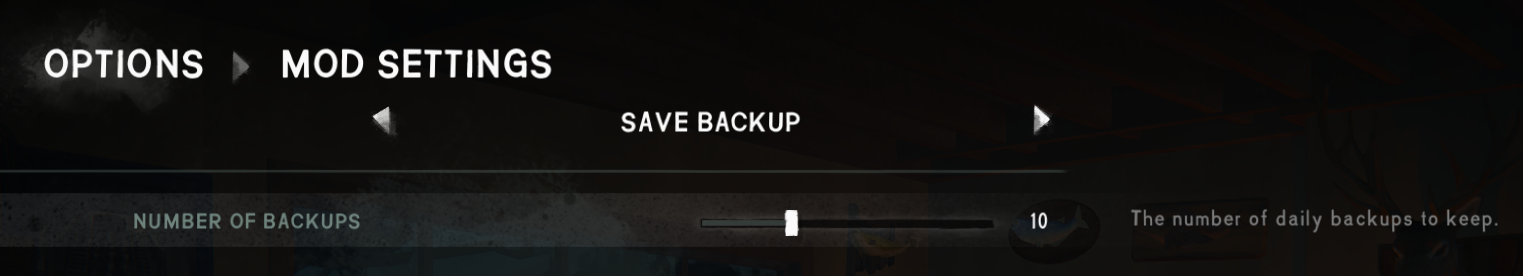
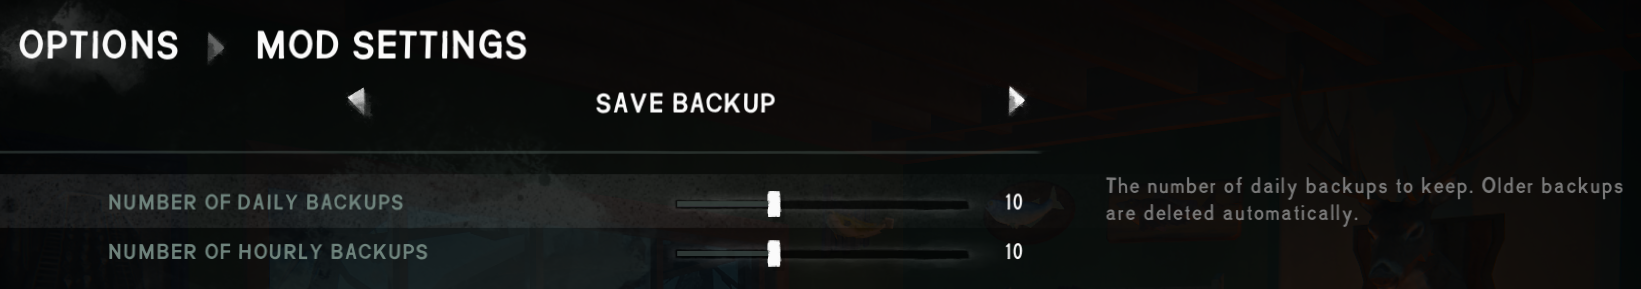
add hourly backups option

diff --git a/src/SaveBackup/ModEntry.cs b/src/SaveBackup/ModEntry.cs
@@ -11,15 +11,18 @@ using Pathoschild.TheLongDarkMods.SaveBackup.Framework;
 
 namespace Pathoschild.TheLongDarkMods.SaveBackup;
 
-// Derived from https://github.com/Pathoschild/SMAPI (see src/SMAPI.Mods.SaveBackup/ModEntry.cs).
-// I'm the only author for all copied changes, so this is multi-licensed under MIT for this repo.
-
 /// <inheritdoc />
 public class ModEntry : MelonMod
 {
     /*********
     ** Fields
     *********/
+    /// <summary>The name of the subfolder for daily backups.</summary>
+    private const string DailyFolderName = "daily";
+
+    /// <summary>The name of the subfolder for hourly backups.</summary>
+    private const string HourlyFolderName = "hourly";
+
     /// <summary>The folder containing saves to back up.</summary>
     private readonly string SavesPath = Path.Combine(Environment.GetFolderPath(Environment.SpecialFolder.LocalApplicationData), "Hinterland", "TheLongDark");
 
@@ -31,6 +34,12 @@ public class ModEntry : MelonMod
 
     /// <summary>The log instance.</summary>
     private MelonLogger.Instance Log = null!; // set in OnInitializeMelon
+
+    /// <summary>A brief name for the backup (excluding the date).</summary>
+    private string BackupLabel = null!; // set in OnLateInitializeMelon
+
+    /// <summary>The next time when the mod should create save backups if needed.</summary>
+    private DateTimeOffset NextBackupCheck = DateTimeOffset.MaxValue; // wait until migrations complete
 
 
     /*********
@@ -47,74 +56,134 @@ public class ModEntry : MelonMod
     /// <inheritdoc />
     public override void OnLateInitializeMelon()
     {
-        try
-        {
-            // init backup folder
-            DirectoryInfo backupFolder = new(this.BackupFolder);
-            backupFolder.Create();
+        this.BackupLabel = $"MelonLoader {BuildInfo.Version}, The Long Dark {GameManager.GetVersionString().Trim()}";
 
-            // back up & prune saves
-            string backupName = $"{DateTime.Now:yyyy-MM-dd} (MelonLoader {BuildInfo.Version}, The Long Dark {GameManager.GetVersionString().Trim()})";
-            Task
-                .Run(() => this.CreateBackup(backupFolder, backupName))
-                .ContinueWith(_ => this.PruneBackups(backupFolder, this.Config.BackupCount));
-        }
-        catch (Exception ex)
-        {
-            this.Log.Error("Error backing up saves.", ex);
-        }
+        Task
+            .Run(this.MoveLegacyBackups)
+            .ContinueWith(_ => this.NextBackupCheck = DateTimeOffset.UtcNow);
+    }
+
+    /// <inheritdoc />
+    public override void OnFixedUpdate()
+    {
+        // wait until next backup window
+        DateTimeOffset now = DateTimeOffset.UtcNow;
+        if (now < this.NextBackupCheck)
+            return;
+        this.NextBackupCheck = now.Add(new TimeSpan(hours: 1, minutes: -now.Minute, seconds: -now.Second)); // set to <hour + 1>:00:00
+
+        // create backups
+        Task.Run(this.UpdateBackups);
     }
 
 
     /*********
     ** Private methods
     *********/
-    /// <summary>Back up the current saves.</summary>
-    /// <param name="backupFolder">The folder containing save backups.</param>
-    /// <param name="backupName">The name of the backup folder or zip to create.</param>
-    private void CreateBackup(DirectoryInfo backupFolder, string backupName)
+    /// <summary>Move 1.0.0 backups into the newer <see cref="DailyFolderName"/>.</summary>
+    private void MoveLegacyBackups()
     {
         try
         {
-            // get target path
-            FileInfo targetFile = new(Path.Combine(backupFolder.FullName, $"{backupName}.zip"));
-            DirectoryInfo fallbackDir = new(Path.Combine(backupFolder.FullName, backupName));
-            if (targetFile.Exists || fallbackDir.Exists)
-            {
-                this.Log.Msg("Already backed up today.");
+            DirectoryInfo rootFolder = new DirectoryInfo(this.BackupFolder);
+            if (!rootFolder.Exists)
                 return;
-            }
 
-            // copy saves to fallback directory
-            DirectoryInfo savesDir = new(this.SavesPath);
-            if (!this.RecursiveCopy(savesDir, fallbackDir, copyRoot: false))
-            {
-                this.Log.Warning("No saves found to back up.");
+            FileInfo[] legacyFiles = rootFolder.GetFiles();
+            if (legacyFiles.Length < 1)
                 return;
-            }
 
-            // compress backup if possible
-            if (!this.TryCompressDir(fallbackDir.FullName, targetFile, out Exception? compressError))
-                this.Log.Msg($"Backed up to {fallbackDir.FullName}. Couldn't compress backup:\n{compressError}");
-            else
-            {
-                this.Log.Msg($"Backed up to {targetFile.FullName}.");
-                fallbackDir.Delete(recursive: true);
-            }
+            DirectoryInfo dailyFolder = new DirectoryInfo(Path.Combine(this.BackupFolder, DailyFolderName));
+            dailyFolder.Create();
+
+            foreach (FileInfo file in legacyFiles)
+                file.MoveTo(Path.Combine(dailyFolder.FullName, file.Name));
+
+            this.Log.Msg($"Moved {legacyFiles.Length} root backups into the '{DailyFolderName}' folder.");
         }
         catch (Exception ex)
         {
-            this.Log.Error("Couldn't back up saves.", ex);
+            this.Log.Error($"Couldn't move pre-1.1.0 backup files into the '{DailyFolderName}' folder.", ex);
+        }
+    }
+
+    /// <summary>Back up the current saves and prune older backups as needed.</summary>
+    private void UpdateBackups()
+    {
+        DateTimeOffset now = DateTimeOffset.Now;
+
+        this.UpdateBackupsOfType(
+            rootBackupsPath: this.BackupFolder,
+            type: DailyFolderName,
+            name: $"{now:yyyy-MM-dd} ({this.BackupLabel})",
+            backupsToKeep: this.Config.DailyBackupCount
+        );
+
+        this.UpdateBackupsOfType(
+            rootBackupsPath: this.BackupFolder,
+            type: HourlyFolderName,
+            name: $"{now:yyyy-MM-dd HH} ({this.BackupLabel})",
+            backupsToKeep: this.Config.HourlyBackupCount
+        );
+    }
+
+    /// <summary>Back up the current saves of a given type and prune its older backups as needed.</summary>
+    /// <param name="rootBackupsPath">The root folder in which to store backup subfolders.</param>
+    /// <param name="type">The backup type (e.g. <see cref="DailyFolderName"/>).</param>
+    /// <param name="name">The unique name for the backup, excluding the path and extension.</param>
+    /// <param name="backupsToKeep">The number of backups to keep of this type.</param>
+    private void UpdateBackupsOfType(string rootBackupsPath, string type, string name, int backupsToKeep)
+    {
+        try
+        {
+            string folderPath = Path.Combine(rootBackupsPath, type);
+
+            // add backup
+            if (backupsToKeep > 0)
+            {
+                Directory.CreateDirectory(folderPath);
+
+                // get target path
+                FileInfo targetFile = new(Path.Combine(folderPath, $"{name}.zip"));
+                DirectoryInfo fallbackDir = new(Path.Combine(folderPath, name));
+                if (targetFile.Exists || fallbackDir.Exists)
+                    return;
+
+                // copy saves to fallback directory
+                DirectoryInfo savesDir = new(this.SavesPath);
+                if (!this.RecursiveCopy(savesDir, fallbackDir, copyRoot: false))
+                    return;
+
+                // compress backup if possible
+                if (!this.TryCompressDir(fallbackDir.FullName, targetFile, out Exception? compressError))
+                    this.Log.Msg($"Added {type} backup at {fallbackDir.FullName}. Couldn't compress backup:\n{compressError}");
+                else
+                {
+                    this.Log.Msg($"Added {type} backup at {targetFile.FullName}.");
+                    fallbackDir.Delete(recursive: true);
+                }
+            }
+
+            // prune backups
+            this.PruneBackups(type, new DirectoryInfo(folderPath), backupsToKeep);
+        }
+        catch (Exception ex)
+        {
+            this.Log.Error($"Couldn't create save backup '{name}'.", ex);
         }
     }
 
     /// <summary>Remove old backups if we've exceeded the limit.</summary>
-    /// <param name="backupFolder">The folder containing save backups.</param>
+    /// <param name="type">The backup type (e.g. <see cref="DailyFolderName"/>).</param>
+    /// <param name="backupFolder">The folder containing save backups of the type being pruned.</param>
     /// <param name="backupsToKeep">The number of backups to keep.</param>
-    private void PruneBackups(DirectoryInfo backupFolder, int backupsToKeep)
+    private void PruneBackups(string type, DirectoryInfo backupFolder, int backupsToKeep)
     {
         try
         {
+            if (!backupFolder.Exists)
+                return;
+
             var oldBackups = backupFolder
                 .GetFileSystemInfos()
                 .OrderByDescending(p => p.CreationTimeUtc)
@@ -124,7 +193,7 @@ public class ModEntry : MelonMod
             {
                 try
                 {
-                    this.Log.Msg($"Deleting {entry.Name}...");
+                    this.Log.Msg($"Deleting {type} backup {entry.Name}...");
                     if (entry is DirectoryInfo folder)
                         folder.Delete(recursive: true);
                     else
@@ -132,13 +201,13 @@ public class ModEntry : MelonMod
                 }
                 catch (Exception ex)
                 {
-                    this.Log.Error($"Error deleting old save backup '{entry.Name}'.", ex);
+                    this.Log.Error($"Error deleting old {type} backup '{entry.Name}'.", ex);
                 }
             }
         }
         catch (Exception ex)
         {
-            this.Log.Error("Couldn't remove old backups.", ex);
+            this.Log.Error($"Couldn't remove old {type} backups.", ex);
         }
     }
 

diff --git a/src/SaveBackup/Framework/ModConfig.cs b/src/SaveBackup/Framework/ModConfig.cs
@@ -8,8 +8,13 @@ internal class ModConfig : JsonModSettings
     /*********
     ** Accessors
     *********/
-    [Name("Number of backups")]
-    [Description("The number of daily backups to keep.")]
-    [Slider(1, 30)]
-    public int BackupCount = 10;
+    [Name("Number of daily backups")]
+    [Description("The number of daily backups to keep. Older backups are deleted automatically.")]
+    [Slider(0, 30)]
+    public int DailyBackupCount = 10;
+
+    [Name("Number of hourly backups")]
+    [Description("The number of hourly backups to keep. Older backups are deleted automatically.")]
+    [Slider(0, 30)]
+    public int HourlyBackupCount = 10;
 }

diff --git a/src/SaveBackup/docs/README.md b/src/SaveBackup/docs/README.md
@@ -17,10 +17,11 @@ Particularly when playing with mods, this lets you recover your save if somethin
 3. Launch the game.
 
 ## Use
-Just play normally! When you launch the game:
-1. A zip of your saves will be added to `Mods/SaveBackup` (if you don't have one for today).  
-   _After a MelonLoader or game update, it may add an extra backup just in case they break saves._
-2. It'll keep the last 10 backups by default (configurable).
+Just play normally!
+
+By default, the mod will create a backup (a) once per real day and (b) once per real hour. It'll
+keep the last 10 backups of each type. If you receive a MelonLoader or game update, it'll create a
+new backup just in case.
 
 This all happens in the background, so it doesn't affect the game's startup time.
 

diff --git a/src/SaveBackup/docs/release-notes.md b/src/SaveBackup/docs/release-notes.md
@@ -1,6 +1,13 @@
 [← back to readme](README.md)
 
 # Release notes
+## Upcoming release
+* Added option for hourly backups.
+* You can now set the backup count option to zero.
+
+**Update note:**  
+This will reset the 'number of backups' option if you changed it (since it was split into two).
+
 ## 1.0.0
 Released 19 April 2026 for The Long Dark 2.50+. See [build attestation](https://github.com/Pathoschild/TheLongDarkMods/attestations/24915099).
 
